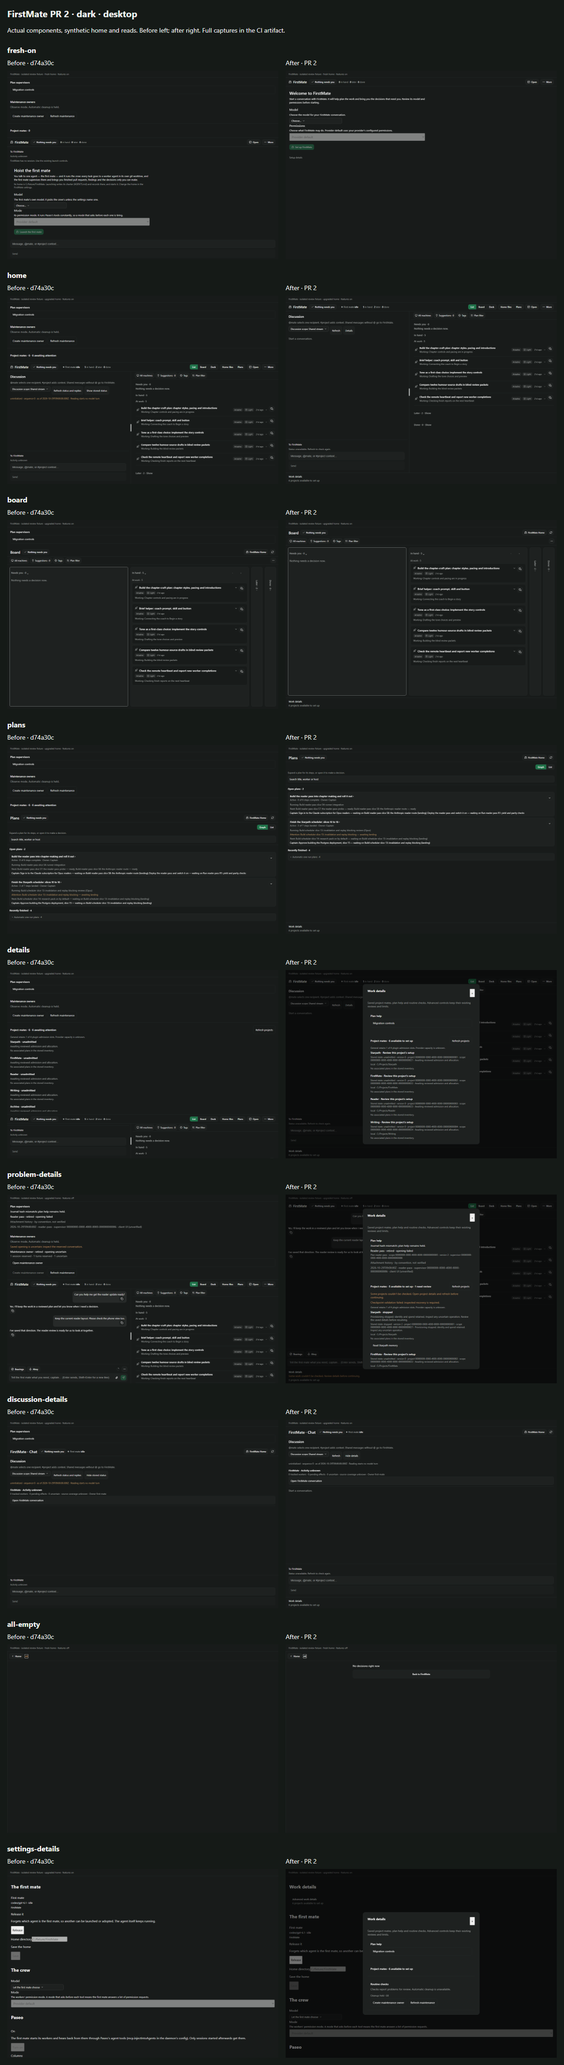
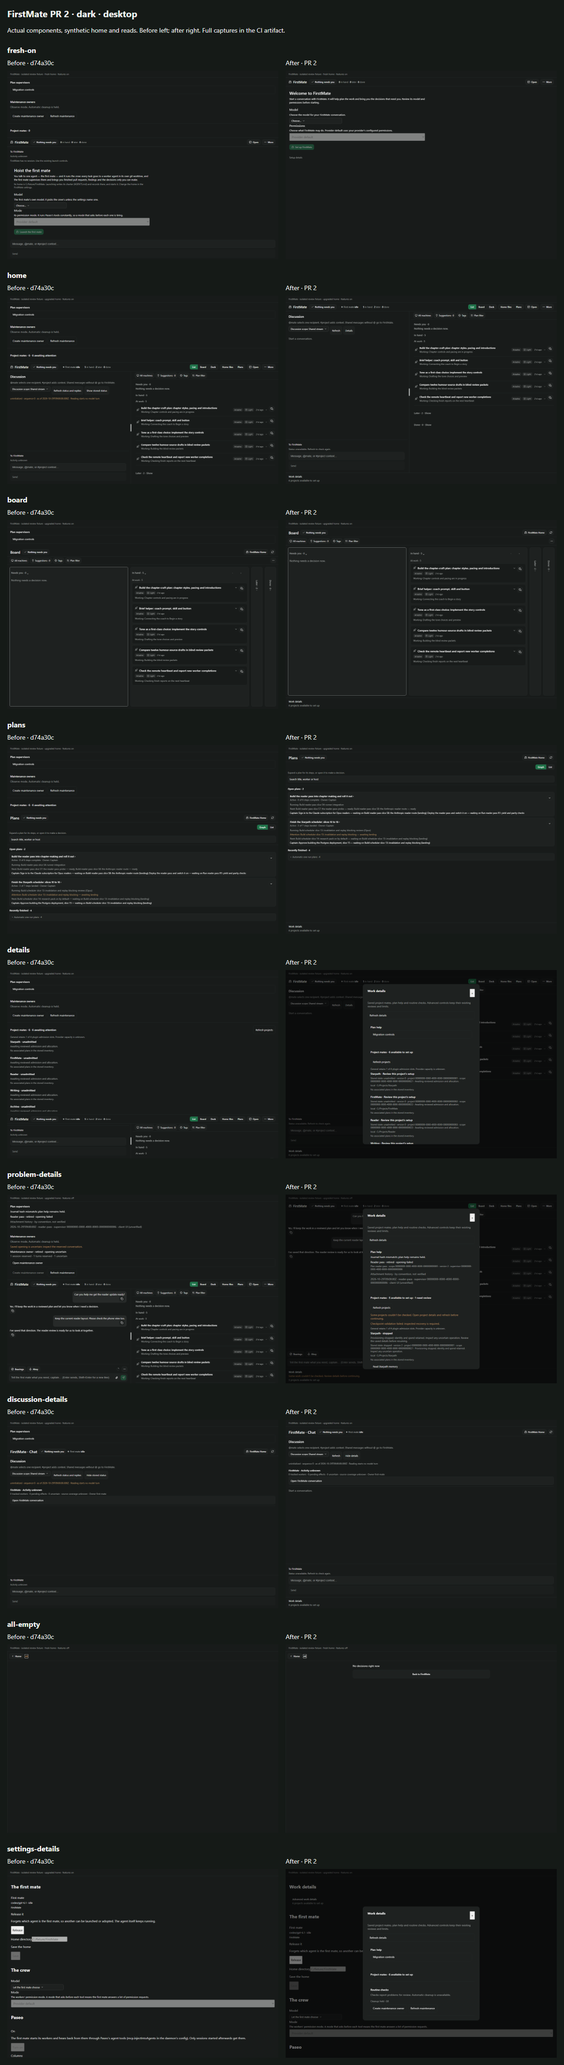
fix: make Work details navigation, recovery and enlarged actions work

Changed region(s): [[0.6562, 0.5914, 0.8125, 0.6848], [0.6562, 0.498, 0.8125, 0.5603], [0.6562, 0.9338, 0.7188, 0.9649]]

diff --git a/client/work-details.tsx b/client/work-details.tsx
@@ -3,7 +3,7 @@ import type { PluginTheme } from "@getpaseo/plugin";
 import { useRpc, type PluginScreenProps } from "@getpaseo/plugin/client";
 import { Modal } from "@getpaseo/plugin/client/react-native";
 import { useQuery } from "@tanstack/react-query";
-import { useEffect, useState } from "react";
+import { useEffect, useRef, useState } from "react";
 import { Pressable, Text, View } from "react-native";
 import { ProjectRuntimeSnapshotSchema, readProjectRuntime } from "../shared/project-runtime";
 import { MaintenanceRuntimeSnapshotSchema, readMaintenance } from "../shared/maintenance-runtime";
@@ -17,14 +17,29 @@ export function WorkDetails({ theme, compact, hostId = "local", navigation, alwa
   theme: PluginTheme; compact: boolean; hostId?: string;
   navigation?: PluginScreenProps["navigation"]; always?: boolean;
 }) {
-  const { activation, activationError } = useWorkflowPlans();
+  const { activation, activationError, activationFetching, refreshActivation } = useWorkflowPlans();
   const readProjects = useRpc(readProjectRuntime), readChecks = useRpc(readMaintenance);
   const projects = useQuery({ queryKey: ["firstmate", "project-ownership", hostId],
     queryFn: async () => ProjectRuntimeSnapshotSchema.parse(await readProjects({})), refetchInterval: 5000 });
   const checks = useQuery({ queryKey: ["firstmate", "maintenance-ownership", hostId],
     queryFn: async () => MaintenanceRuntimeSnapshotSchema.parse(await readChecks({})), refetchInterval: 5000 });
   const [open, setOpen] = useState(false);
-  useEffect(() => { setOpen(false); }, [hostId, projects.data?.homeId, checks.data?.homeId, activation?.homeId]);
+  const identity = useRef({ hostId, project: projects.data?.homeId, checks: checks.data?.homeId, activation: activation?.homeId });
+  useEffect(() => {
+    const next = { hostId, project: projects.data?.homeId, checks: checks.data?.homeId, activation: activation?.homeId };
+    // First successful metadata after a cold read error is recovery, not a home switch.
+    const keys = ["project", "checks", "activation"] as const;
+    const knownHomes = keys.map(key => identity.current[key]).filter(Boolean);
+    if (identity.current.hostId !== hostId || keys.some(key =>
+      next[key] && knownHomes.some(home => home !== next[key]))) setOpen(false);
+    identity.current = next;
+  }, [hostId, projects.data?.homeId, checks.data?.homeId, activation?.homeId]);
+  const refreshing = !!activationFetching || projects.isFetching || checks.isFetching;
+  function refresh() {
+    refreshActivation?.();
+    void projects.refetch({ cancelRefetch: false });
+    void checks.refetch({ cancelRefetch: false });
+  }
   const available = projects.data?.projects.filter(projectSetupAvailable).length ?? 0;
   const problem = activationError || projects.isError || checks.isError || !!activation?.problems.length ||
     !!projects.data?.problems.length || projects.data?.freshness === "held" || projects.data?.projects.some(projectHasProblem) ||
@@ -35,7 +50,7 @@ export function WorkDetails({ theme, compact, hostId = "local", navigation, alwa
   if (!always && !available && !retained && !problem) return null;
   return <View testID="work-details-entry" style={{ paddingHorizontal: compact ? 12 : 16, borderTopWidth: always ? 0 : 1, borderColor: theme.colors.border }}>
     <Pressable accessibilityRole="button" accessibilityLabel={always ? "Advanced work details" : "Work details"} accessibilityState={{ expanded: open }}
-      onPress={() => setOpen(true)} style={{ minHeight: 44, paddingVertical: 10, gap: 4, justifyContent: "center" }}>
+      onPress={() => { setOpen(true); refresh(); }} style={{ minHeight: 44, paddingVertical: 10, gap: 4, justifyContent: "center" }}>
       <Text style={{ color: theme.colors.foreground, fontSize: 13 }}>{always ? "Advanced work details" : "Work details"}</Text>
       {problem ? <Text accessibilityRole="alert" style={{ color: theme.colors.statusWarning, fontSize: 13 }}>Some work couldn't be checked. Review details before continuing.</Text> : null}
       {available ? <Text style={{ color: theme.colors.foregroundMuted, fontSize: 13 }}>{available} {available === 1 ? "project available" : "projects available"} to set up</Text> : null}
@@ -44,10 +59,14 @@ export function WorkDetails({ theme, compact, hostId = "local", navigation, alwa
       <View style={{ gap: 16 }}>
         <Text style={{ color: theme.colors.foregroundMuted }}>Saved project mates, plan help and routine checks. Advanced controls keep their existing reviews and limits.</Text>
         {projects.isPending || checks.isPending || !activation && !activationError ? <Text style={{ color: theme.colors.foregroundMuted }}>Loading saved work…</Text> : null}
-        {activationError ? <Text accessibilityRole="alert" style={{ color: theme.colors.statusWarning }}>Plan help could not be refreshed. Close and reopen details to check again; actions remain unavailable.</Text> : null}
+        {activationError ? <Text accessibilityRole="alert" style={{ color: theme.colors.statusWarning }}>Plan help could not be refreshed. Refresh details to check again; actions remain unavailable.</Text> : null}
+        <Pressable accessibilityRole="button" accessibilityLabel={refreshing ? "Refreshing details…" : "Refresh details"} accessibilityState={{ disabled: refreshing }} disabled={refreshing}
+          onPress={refresh} style={{ minHeight: 44, maxWidth: "100%", minWidth: 0, justifyContent: "center", padding: 10, borderWidth: 1, borderRadius: 7, borderColor: theme.colors.border, opacity: refreshing ? 0.5 : 1 }}>
+          <Text style={{ color: theme.colors.foreground, flexShrink: 1 }}>{refreshing ? "Refreshing details…" : "Refresh details"}</Text>
+        </Pressable>
         <SupervisionActivationBoard theme={theme} compact={compact} advanced />
-        <ProjectOwnershipBoard theme={theme} compact={compact} hostId={hostId} {...(navigation ? { navigation } : {})} advanced />
-        <MaintenanceOwnershipBoard theme={theme} compact={compact} hostId={hostId} {...(navigation ? { navigation } : {})} advanced />
+        <ProjectOwnershipBoard theme={theme} compact={compact} hostId={hostId} {...(navigation ? { navigation } : {})} onNavigate={() => setOpen(false)} advanced />
+        <MaintenanceOwnershipBoard theme={theme} compact={compact} hostId={hostId} {...(navigation ? { navigation } : {})} onNavigate={() => setOpen(false)} advanced />
         {!projects.isPending && !checks.isPending && activation && !problem && !available && !retained && !activation.enabled && !projects.data?.enabled && !checks.data?.enabled ?
           <Text style={{ color: theme.colors.foregroundMuted }}>No saved project mates, plan help or routine checks.</Text> : null}
       </View>

diff --git a/client/work-details.test.ts b/client/work-details.test.ts
@@ -4,7 +4,7 @@ import { QueryClient, QueryClientProvider } from "@tanstack/react-query";
 import { afterEach, beforeEach, expect, it, vi } from "vitest";
 import { attentionTheme as theme } from "../test/attention-deck-fixture";
 import { visibleText } from "../test/visible-text";
-const state = vi.hoisted(() => ({ projects: {} as any, checks: {} as any, activation: {} as any, calls: [] as string[], fail: false }));
+const state = vi.hoisted(() => ({ projects: {} as any, checks: {} as any, activation: {} as any, calls: [] as string[], fail: false, activationError: false, refreshActivation: vi.fn() }));
 vi.mock("react-native", () => ({ Pressable: "Pressable", Text: "Text", View: "View" }));
 vi.mock("@getpaseo/plugin/client", () => ({ useRpc: (rpc: { name: string }) => async () => {
   state.calls.push(rpc.name);
@@ -14,7 +14,7 @@ vi.mock("@getpaseo/plugin/client", () => ({ useRpc: (rpc: { name: string }) => a
   throw new Error(`Unexpected effect: ${rpc.name}`);
 } }));
 vi.mock("@getpaseo/plugin/client/react-native", () => ({ Modal: Object.assign(({ open, children }: { open: boolean; children: ReactNode }) => open ? children : null, { Content: "Content" }) }));
-vi.mock("./workflow-plans", () => ({ useWorkflowPlans: () => ({ activation: state.activation }) }));
+vi.mock("./workflow-plans", () => ({ useWorkflowPlans: () => ({ activation: state.activation, activationError: state.activationError, refreshActivation: state.refreshActivation }) }));
 vi.mock("./project-ownership", () => ({ ProjectOwnershipBoard: "ProjectOwnershipBoard" }));
 vi.mock("./maintenance-ownership", () => ({ MaintenanceOwnershipBoard: "MaintenanceOwnershipBoard" }));
 vi.mock("./supervision-activation", () => ({ SupervisionActivationBoard: "SupervisionActivationBoard" }));
@@ -22,7 +22,7 @@ import { WorkDetails } from "./work-details";
 let renderer: ReactTestRenderer | undefined, cache: QueryClient;
 beforeEach(() => {
   (globalThis as { IS_REACT_ACT_ENVIRONMENT?: boolean }).IS_REACT_ACT_ENVIRONMENT = true;
-  state.calls = []; state.fail = false;
+  state.calls = []; state.fail = false; state.activationError = false; state.refreshActivation.mockReset();
   state.activation = { enabled: true, homeId: "fixture", problems: [], plans: [], audits: [], migrations: [], dispositions: [] };
   state.projects = { enabled: true, homeId: "fixture", registryDigest: null, sequence: 0, hash: null, freshness: "uninitialized", problems: [],
     general: { agentId: null, scopeId: null, slots: 4, headroom: 1, providerAvailability: "unknown" }, projects: [] };
@@ -49,10 +49,49 @@ it("disabled controls keep a failed opening/audit reachable and opening details 
   await mount(); expect(text()).toContain("Review details before continuing");
   await act(async () => renderer!.root.find(n => n.type === "Pressable" as never).props.onPress());
   expect(renderer!.root.findByType("SupervisionActivationBoard" as never).props.advanced).toBe(true);
-  expect(state.calls).toEqual(["firstmate.projects.read", "firstmate.maintenance.read"]);
+  expect(state.calls).toContain("firstmate.projects.read"); expect(state.calls).toContain("firstmate.maintenance.read");
+  expect(state.calls.every(name => name.endsWith(".read"))).toBe(true);
 });
 it("cold read failure stays visible even with no saved inventory", async () => {
   state.fail = true; await mount();
   expect(text()).toContain("Some work couldn't be checked");
   expect(text()).not.toContain("No saved project mates");
+});
+it("F1: accepted project navigation dismisses the containing details dialog", async () => {
+  await mount(true);
+  await act(async () => renderer!.root.find(n => n.type === "Pressable" as never).props.onPress());
+  const project = renderer!.root.findByType("ProjectOwnershipBoard" as never);
+  await act(async () => project.props.onNavigate?.());
+  expect(renderer!.root.findAllByType("ProjectOwnershipBoard" as never)).toHaveLength(0);
+});
+it("F2: opening/reopening details retries its owning plan read, including a cold error", async () => {
+  state.activation = undefined; state.activationError = true;
+  await mount(true);
+  const trigger = () => renderer!.root.find(n => n.type === "Pressable" as never && n.props.accessibilityLabel === "Advanced work details");
+  await act(async () => trigger().props.onPress());
+  expect(state.refreshActivation).toHaveBeenCalledTimes(1);
+  await act(async () => renderer!.root.findByProps({ title: "Work details" }).props.onOpenChange(false));
+  await act(async () => trigger().props.onPress());
+  expect(state.refreshActivation).toHaveBeenCalledTimes(2);
+  expect(state.calls.every(name => name.endsWith(".read"))).toBe(true);
+});
+it("F2: first recovered activation metadata keeps details open; a changed known home closes it", async () => {
+  const saved = state.activation; state.activation = undefined; state.activationError = true;
+  await mount(true);
+  await act(async () => renderer!.root.find(n => n.type === "Pressable" as never && n.props.accessibilityLabel === "Advanced work details").props.onPress());
+  state.activation = saved; state.activationError = false;
+  const update = () => renderer!.update(createElement(QueryClientProvider, { client: cache }, createElement(WorkDetails, { theme, compact: true, always: true })));
+  await act(async () => update());
+  expect(renderer!.root.findAllByType("ProjectOwnershipBoard" as never)).toHaveLength(1);
+  state.activation = { ...saved, homeId: "another-home" };
+  await act(async () => update());
+  expect(renderer!.root.findAllByType("ProjectOwnershipBoard" as never)).toHaveLength(0);
+});
+it("F2: recovered activation from another home still closes details even without earlier activation metadata", async () => {
+  const saved = state.activation; state.activation = undefined; state.activationError = true;
+  await mount(true);
+  await act(async () => renderer!.root.find(n => n.type === "Pressable" as never && n.props.accessibilityLabel === "Advanced work details").props.onPress());
+  state.activation = { ...saved, homeId: "another-home" }; state.activationError = false;
+  await act(async () => renderer!.update(createElement(QueryClientProvider, { client: cache }, createElement(WorkDetails, { theme, compact: true, always: true }))));
+  expect(renderer!.root.findAllByType("ProjectOwnershipBoard" as never)).toHaveLength(0);
 });

diff --git a/client/project-ownership.test.ts b/client/project-ownership.test.ts
@@ -12,17 +12,17 @@ import { updateFirstmateConfig } from "../server/config";
 import type { PaseoApi } from "../server/host-types";
 import type { ProjectRuntimeSnapshot } from "../shared/project-runtime";
 import { attentionTheme as theme } from "../test/attention-deck-fixture";
-const state = vi.hoisted(() => ({ data: null as ProjectRuntimeSnapshot | null, read: vi.fn(), provision: vi.fn(), recover: vi.fn(), abort: vi.fn() }));
+const state = vi.hoisted(() => ({ data: null as ProjectRuntimeSnapshot | null, read: vi.fn(), provision: vi.fn(), recover: vi.fn(), abort: vi.fn(), discuss: vi.fn(), canDiscuss: false }));
 vi.mock("@getpaseo/plugin/client", () => ({ useRpc: (rpc: { name: string }) => rpc.name.endsWith("provision-ui") ? state.provision : rpc.name.endsWith("recover-ui") ? state.recover : rpc.name.endsWith("abort-ui") ? state.abort : state.read }));
 vi.mock("react-native", () => ({ Pressable: "Pressable", ScrollView: "ScrollView", Text: "Text", View: "View" }));
 vi.mock("@getpaseo/plugin/client/react-native", () => ({ Modal: Object.assign(({ open, children }: { open: boolean; children: ReactNode }) => open ? children : null, { Content: "Content" }) }));
-vi.mock("./workflow-plans", () => ({ useWorkflowPlans: () => ({}), workflowRequestId: () => "00000000-0000-4000-8000-000000000099" }));
+vi.mock("./workflow-plans", () => ({ useWorkflowPlans: () => ({ discussScope: state.discuss, canDiscussScope: () => state.canDiscuss }), workflowRequestId: () => "00000000-0000-4000-8000-000000000099" }));
 import { ProjectOwnershipBoard } from "./project-ownership";
 import { visibleText } from "../test/visible-text";
 let renderer: ReactTestRenderer | undefined, cache: QueryClient;
 beforeEach(() => {
   (globalThis as { IS_REACT_ACT_ENVIRONMENT?: boolean }).IS_REACT_ACT_ENVIRONMENT = true;
-  vi.clearAllMocks(); cache = new QueryClient({ defaultOptions: { queries: { retry: false } } });
+  vi.clearAllMocks(); state.discuss.mockReset(); state.canDiscuss = false; cache = new QueryClient({ defaultOptions: { queries: { retry: false } } });
   state.data = { enabled: true, homeId: "fixture", registryDigest: "a".repeat(64), sequence: 10, hash: "a".repeat(64), freshness: "current", problems: [],
     general: { agentId: "general", scopeId: null, slots: 4, headroom: 1, providerAvailability: "unknown" }, projects: [{ name: "Alpha", projectId: "00000000-0000-4000-8000-000000000001", scopeId: "00000000-0000-4000-8000-000000000002", hostId: "local", directory: "C:/Alpha", state: "admitted", reason: null, version: 2, aliases: [], agentId: null, workspaceId: null, provisionRequestId: null,
       sessions: 0, turns: 0, uncertain: 0, memoryPending: 0, profile: { provider: "codex/test", modeId: "full-access" }, limits: { supervisorSessions: 1, supervisorTurns: 5 }, plans: [] }] };
@@ -30,8 +30,8 @@ beforeEach(() => {
 });
 afterEach(async () => { await act(async () => renderer?.unmount()); cache.clear(); });
 const button = (label: string) => renderer!.root.find(n => n.type === "Pressable" as never && n.props.accessibilityLabel === label);
-async function mount() {
-  await act(async () => { renderer = create(createElement(QueryClientProvider, { client: cache }, createElement(ProjectOwnershipBoard, { theme, compact: true }))); });
+async function mount(extra: Partial<Parameters<typeof ProjectOwnershipBoard>[0]> = {}) {
+  await act(async () => { renderer = create(createElement(QueryClientProvider, { client: cache }, createElement(ProjectOwnershipBoard, { theme, compact: true, ...extra }))); });
   await vi.waitFor(async () => {
     await act(async () => { await new Promise(done => setTimeout(done, 0)); });
     expect(button("Project mates and plans")).toBeDefined();
@@ -63,6 +63,29 @@ it("feature-off history keeps a stopped project without an agent inspectable", a
   await act(async () => button("Project mates and plans").props.onPress());
   expect(visibleText(renderer!.toJSON())).toContain("identity and spend retained");
   expect(state.provision).not.toHaveBeenCalled(); expect(state.abort).not.toHaveBeenCalled();
+});
+it("F1: dismisses details after a checked discussion route and keeps it open if eligibility changed", async () => {
+  const order: string[] = [], onNavigate = vi.fn(() => order.push("dismiss"));
+  state.canDiscuss = true; state.discuss.mockImplementation(() => order.push("discuss"));
+  await mount({ onNavigate }); await act(async () => button("Project mates and plans").props.onPress());
+  const discuss = button("Discuss Alpha scope").props.onPress;
+  state.canDiscuss = false;
+  await act(async () => discuss());
+  expect(state.discuss).not.toHaveBeenCalled(); expect(onNavigate).not.toHaveBeenCalled();
+  state.canDiscuss = true;
+  await act(async () => discuss());
+  expect(state.discuss).toHaveBeenCalledExactlyOnceWith(state.data!.projects[0]!.scopeId, "fixture");
+  expect(order).toEqual(["discuss", "dismiss"]);
+  expect(state.provision).not.toHaveBeenCalled(); expect(state.recover).not.toHaveBeenCalled(); expect(state.abort).not.toHaveBeenCalled();
+});
+it("F1: native conversation navigation preserves the host and agent before dismissing details", async () => {
+  Object.assign(state.data!.projects[0]!, { agentId: "recorded-agent", workspaceId: "recorded-workspace" });
+  const order: string[] = [], openAgent = vi.fn(() => order.push("open")), onNavigate = vi.fn(() => order.push("dismiss"));
+  await mount({ hostId: "other-host", navigation: { openAgent, openWorkspace: vi.fn() }, onNavigate });
+  await act(async () => button("Project mates and plans").props.onPress());
+  await act(async () => button("Open Alpha conversation").props.onPress());
+  expect(openAgent).toHaveBeenCalledExactlyOnceWith({ agentId: "recorded-agent", serverId: "other-host" });
+  expect(order).toEqual(["open", "dismiss"]); expect(state.provision).not.toHaveBeenCalled();
 });
 
 it.each(["mounted", "remounted", "stop"])("review F2: %s app repairs through the production RPC and resumes the same recorded input", async mode => {

diff --git a/client/project-ownership.tsx b/client/project-ownership.tsx
@@ -12,12 +12,12 @@ import { projectHasHistory, projectHasProblem, projectSetupAvailable } from "./o
 type Project = ProjectRuntimeSnapshot["projects"][number];
 function Action({ theme, label, onPress, disabled = false }: { theme: PluginTheme; label: string; onPress(): void; disabled?: boolean }) {
   return <Pressable accessibilityRole="button" accessibilityLabel={label} accessibilityState={{ disabled }} disabled={disabled} onPress={onPress}
-    style={{ minHeight: 44, paddingHorizontal: 12, paddingVertical: 8, justifyContent: "center", borderWidth: 1, borderColor: theme.colors.border, borderRadius: 7, opacity: disabled ? 0.5 : 1 }}>
-    <Text style={{ color: theme.colors.foreground, fontSize: 13 }}>{label}</Text>
+    style={{ minHeight: 44, maxWidth: "100%", minWidth: 0, flexShrink: 1, paddingHorizontal: 12, paddingVertical: 8, justifyContent: "center", borderWidth: 1, borderColor: theme.colors.border, borderRadius: 7, opacity: disabled ? 0.5 : 1 }}>
+    <Text style={{ color: theme.colors.foreground, fontSize: 13, flexShrink: 1 }}>{label}</Text>
   </Pressable>;
 }
-export function ProjectOwnershipBoard({ theme, compact, navigation, hostId = "local", advanced = false }: {
-  theme: PluginTheme; compact: boolean; navigation?: PluginScreenProps["navigation"]; hostId?: string; advanced?: boolean;
+export function ProjectOwnershipBoard({ theme, compact, navigation, hostId = "local", advanced = false, onNavigate }: {
+  theme: PluginTheme; compact: boolean; navigation?: PluginScreenProps["navigation"]; hostId?: string; advanced?: boolean; onNavigate?(): void;
 }) {
   const read = useRpc(readProjectRuntime), provision = useRpc(provisionProjectFromUi);
   const plans = useWorkflowPlans();
@@ -66,8 +66,8 @@ export function ProjectOwnershipBoard({ theme, compact, navigation, hostId = "lo
     <ProjectOwnershipView theme={theme} compact={compact} data={data} readError={query.isError} onRefresh={() => { void query.refetch(); }}
       {...(!selected ? { onRecover: () => { void repair(); }, recoveryBusy: busy } : {})}
       onProvision={p => { pending.current = null; setError(null); select(p); }}
-      onDiscuss={p => { if (p.scopeId) plans.discussScope?.(p.scopeId, data.homeId); }} canDiscuss={p => !!p.scopeId && !!plans.canDiscussScope?.(p.scopeId, data.homeId)}
-      onOpen={navigation ? p => { if (p.agentId) navigation.openAgent({ agentId: p.agentId, ...(hostId === "local" ? {} : { serverId: hostId }) }); } : undefined} />
+      onDiscuss={p => { if (p.scopeId && plans.canDiscussScope?.(p.scopeId, data.homeId) && plans.discussScope) { plans.discussScope(p.scopeId, data.homeId); onNavigate?.(); } }} canDiscuss={p => !!p.scopeId && !!plans.canDiscussScope?.(p.scopeId, data.homeId)}
+      onOpen={navigation ? p => { if (p.agentId) { navigation.openAgent({ agentId: p.agentId, ...(hostId === "local" ? {} : { serverId: hostId }) }); onNavigate?.(); } } : undefined} />
     {!selected && error ? <Text accessibilityRole="alert" style={{ color: theme.colors.statusDanger }}>{error}</Text> : null}
     {selected ? <Modal title={`${selected.provisionRequestId ? "Resume" : "Create"} project mate for ${selected.name}?`} open onOpenChange={open => { if (!open && !busy) select(null); }}>
       <Modal.Content><View style={{ gap: 12 }}>

diff --git a/client/maintenance-ownership.tsx b/client/maintenance-ownership.tsx
@@ -17,11 +17,11 @@ import { maintenanceHasHistory } from "./ownership-state";
 type Owner = MaintenanceRuntimeSnapshot["owners"][number];
 function Action({ theme, label, disabled = false, onPress }: { theme: PluginTheme; label: string; disabled?: boolean; onPress(): void }) {
   return <Pressable accessibilityRole="button" accessibilityLabel={label} accessibilityState={{ disabled }} disabled={disabled} onPress={onPress}
-    style={{ minHeight: 44, paddingHorizontal: 12, paddingVertical: 10, justifyContent: "center", borderWidth: 1, borderColor: theme.colors.border, borderRadius: 7, opacity: disabled ? 0.5 : 1 }}>
-    <Text style={{ color: theme.colors.foreground }}>{label}</Text>
+    style={{ minHeight: 44, maxWidth: "100%", minWidth: 0, flexShrink: 1, paddingHorizontal: 12, paddingVertical: 10, justifyContent: "center", borderWidth: 1, borderColor: theme.colors.border, borderRadius: 7, opacity: disabled ? 0.5 : 1 }}>
+    <Text style={{ color: theme.colors.foreground, flexShrink: 1 }}>{label}</Text>
   </Pressable>;
 }
-export function MaintenanceOwnershipBoard({ theme, compact, hostId = "local", navigation, advanced = false }: { theme: PluginTheme; compact: boolean; hostId?: string; navigation?: PluginScreenProps["navigation"]; advanced?: boolean }) {
+export function MaintenanceOwnershipBoard({ theme, compact, hostId = "local", navigation, advanced = false, onNavigate }: { theme: PluginTheme; compact: boolean; hostId?: string; navigation?: PluginScreenProps["navigation"]; advanced?: boolean; onNavigate?(): void }) {
   const read = useRpc(readMaintenance);
   const query = useQuery({ queryKey: ["firstmate", "maintenance-ownership", hostId], queryFn: async () => MaintenanceRuntimeSnapshotSchema.parse(await read({})), refetchInterval: 5000 });
   const [admission, selectAdmission] = useState<Owner | "new" | null>(null);
@@ -40,7 +40,7 @@ export function MaintenanceOwnershipBoard({ theme, compact, hostId = "local", na
         <Text style={{ color: colors.foreground }}>{owner.admission?.name ?? "Maintenance owner"} · {owner.state}{owner.opening ? ` · opening ${owner.opening}` : ""}</Text>
         <Text style={{ color: colors.foregroundMuted }}>{owner.sessions} session reserved · {owner.turns} turns reserved{owner.uncertain ? ` · ${owner.uncertain} uncertain` : ""}</Text>
         <Text selectable style={{ color: colors.foregroundMuted, fontSize: 12 }}>Scope {owner.scopeId} · epoch {owner.epoch} · agent {owner.agentId ?? "not recorded"}</Text>
-        {owner.agentId && navigation ? <Action theme={theme} label={`Open ${owner.admission?.name ?? "maintenance owner"}`} onPress={() => navigation.openAgent({ agentId: owner.agentId!, ...(hostId === "local" ? {} : { serverId: hostId }) })} /> : null}
+        {owner.agentId && navigation ? <Action theme={theme} label={`Open ${owner.admission?.name ?? "maintenance owner"}`} onPress={() => { navigation.openAgent({ agentId: owner.agentId!, ...(hostId === "local" ? {} : { serverId: hostId }) }); onNavigate?.(); }} /> : null}
         {owner.admission && owner.opening !== "succeeded" ? <Action theme={theme} label={`Resume ${owner.admission.name}`} disabled={stale} onPress={() => selectAdmission(owner)} /> : null}
       </View>)}
     </View>

diff --git a/client/maintenance-ownership.test.ts b/client/maintenance-ownership.test.ts
@@ -23,8 +23,8 @@ beforeEach(() => {
 });
 afterEach(async () => { await act(async () => renderer?.unmount()); renderer = undefined; cache.clear(); });
 const button = (label: string) => renderer!.root.find(n => n.type === "Pressable" as never && n.props.accessibilityLabel === label);
-async function mount() {
-  await act(async () => { renderer = create(createElement(QueryClientProvider, { client: cache }, createElement(MaintenanceOwnershipBoard, { theme, compact: true, advanced: true }))); });
+async function mount(extra: Partial<Parameters<typeof MaintenanceOwnershipBoard>[0]> = {}) {
+  await act(async () => { renderer = create(createElement(QueryClientProvider, { client: cache }, createElement(MaintenanceOwnershipBoard, { theme, compact: true, advanced: true, ...extra }))); });
   await vi.waitFor(async () => { await act(async () => { await new Promise(done => setTimeout(done, 0)); }); expect(button("Create maintenance owner")).toBeDefined(); });
 }
 it("fresh-home app reads/opening create nothing; explicit confirmation retains exact admission after a lost reply", async () => {
@@ -51,4 +51,13 @@ it("a fresh client resumes the recorded maintenance request and a failed refresh
   expect(mocks.admit.mock.calls[0]![0]).toEqual({ homeId: data.homeId, requestId: id, resume: true });
   mocks.read.mockRejectedValue(new Error("offline")); await act(async () => { await cache.refetchQueries(); await new Promise(done => setTimeout(done, 20)); });
   expect(button("Retry recorded maintenance admission").props.disabled).toBe(true);
+});
+it("F1: inspecting a retained checks conversation dismisses details without starting any work", async () => {
+  data.enabled = false;
+  data.owners = [{ scopeId: id, state: "retired", agentId: "saved-checks", epoch: 2, sessions: 1, turns: 1, uncertain: 1, admission: null, opening: "uncertain" }];
+  const order: string[] = [], openAgent = vi.fn(() => order.push("open")), onNavigate = vi.fn(() => order.push("dismiss"));
+  await mount({ navigation: { openAgent, openWorkspace: vi.fn() }, onNavigate });
+  await act(async () => button("Open maintenance owner").props.onPress());
+  expect(openAgent).toHaveBeenCalledExactlyOnceWith({ agentId: "saved-checks" });
+  expect(order).toEqual(["open", "dismiss"]); expect(mocks.admit).not.toHaveBeenCalled(); expect(mocks.answer).not.toHaveBeenCalled();
 });

diff --git a/client/workflow-plans.tsx b/client/workflow-plans.tsx
@@ -32,7 +32,8 @@ export function workflowRequestId() {
   return globalThis.crypto?.randomUUID?.() ?? "xxxxxxxx-xxxx-4xxx-yxxx-xxxxxxxxxxxx".replace(/[xy]/g, c => { const n = Math.floor(Math.random() * 16); return (c === "x" ? n : (n & 3) | 8).toString(16); });
 }
 type PlansContext = {
-  activation?: ActivationSnapshot | undefined; activationError?: boolean | undefined; updateActivation?(snapshot: ActivationSnapshot): void;
+  activation?: ActivationSnapshot | undefined; activationError?: boolean | undefined; activationFetching?: boolean;
+  refreshActivation?(): void; updateActivation?(snapshot: ActivationSnapshot): void;
   snapshot?: WorkflowSnapshot; loading: boolean; error: string | null; refresh(): void; open(id: string): void;
   scope?: string | null; fleet?: Fleet | undefined; fleetOffline?: boolean; canNavigate?: boolean;
   planFilter?: string | null; setPlanFilter?(id: string | null): void;
@@ -94,7 +95,8 @@ export function WorkflowSurface({ theme, children, hostId, view, shell, params =
     finally { gate.current = false; setBusy(false); }
   }
   return <Plans.Provider value={{ ...(snapshot ? { snapshot } : {}), loading: query.isPending, error: query.error ? errorText(query.error) : null, refresh: () => { void query.refetch(); }, open,
-    activation: scopeRead.data?.activation, activationError: !!scopeRead.error,
+    activation: scopeRead.data?.activation, activationError: !!scopeRead.error, activationFetching: scopeRead.isFetching,
+    refreshActivation: () => { void scopeRead.refetch({ cancelRefetch: false }); },
     updateActivation: next => cache.setQueryData([...SCOPE_QUERY_KEY, hostId ?? "local", data?.home ?? ""], (current: typeof scopeRead.data) => current ? { ...current, activation: next } : current),
     scope, fleet: data, fleetOffline: !!fleet.error, canNavigate: !!scope && (!view || !!shell?.openTask), planFilter,
     discussPlan, canDiscussPlan: id => !!discussionScope(id),

diff --git a/docs/smooth-pr2/regression-panel.jsx b/docs/smooth-pr2/regression-panel.jsx
@@ -1,0 +1,17 @@
+/** Registered production Home and shell; only the host and read data are synthetic. */
+import React,{useState} from 'react';
+import {createRoot} from 'react-dom/client';
+import {QueryClient,QueryClientProvider} from '@tanstack/react-query';
+import {registerFleetViews} from '../../client/workspace-panels';
+import {theme as dark} from '../board-list/theme';
+import {params} from './data';
+const theme=params.get('theme')==='light'?{colors:{...dark.colors,surface0:'#f6f8f7',surface1:'#ffffff',surface2:'#edf1ee',border:'#c9d2cc',foreground:'#16241b',foregroundMuted:'#52635a',statusWarning:'#8a5813',statusDanger:'#a52c2c',accent:'#17603b',accentForeground:'#ffffff'}}:dark;
+window.fixtureTheme=theme;
+let Home,changeRoute;
+registerFleetViews({addScreen(s){Home=s.Component},addWorkspacePanel(){},openScreen(s){window.review.navigation.push(s);changeRoute(s.params)},openPanel(){}});
+const cache=new QueryClient({defaultOptions:{queries:{retry:false,refetchOnWindowFocus:false},mutations:{retry:false}}});
+window.review.cache=cache;
+function App(){const[route,setRoute]=useState({chat:'show'});changeRoute=setRoute;
+return <QueryClientProvider client={cache}><Home theme={theme} layout={{compact:innerWidth<638}} host={{id:'local',label:'Local',online:true}} workspaceId="sample" params={route} navigation={{openAgent:input=>window.review.navigation.push(input)}} /></QueryClientProvider>}
+document.body.style.background=theme.colors.surface0;
+createRoot(document.getElementById('root')).render(<App/>);

diff --git a/client/supervision-activation.tsx b/client/supervision-activation.tsx
@@ -16,8 +16,8 @@ import { activationHasHistory } from "./ownership-state";
 type Plan = ActivationSnapshot["plans"][number];
 function Action({ theme, label, onPress, disabled = false }: { theme: PluginTheme; label: string; onPress(): void; disabled?: boolean }) {
   return <Pressable accessibilityRole="button" accessibilityLabel={label} accessibilityState={{ disabled }} disabled={disabled} onPress={onPress}
-    style={{ minHeight: 44, paddingHorizontal: 12, paddingVertical: 10, justifyContent: "center", borderWidth: 1, borderColor: theme.colors.border, borderRadius: 7, opacity: disabled ? 0.5 : 1 }}>
-    <Text style={{ color: theme.colors.foreground }}>{label}</Text>
+    style={{ minHeight: 44, maxWidth: "100%", minWidth: 0, flexShrink: 1, paddingHorizontal: 12, paddingVertical: 10, justifyContent: "center", borderWidth: 1, borderColor: theme.colors.border, borderRadius: 7, opacity: disabled ? 0.5 : 1 }}>
+    <Text style={{ color: theme.colors.foreground, flexShrink: 1 }}>{label}</Text>
   </Pressable>;
 }
 export function SupervisionActivationBoard({ theme, compact, advanced = false }: { theme: PluginTheme; compact: boolean; advanced?: boolean }) {

diff --git a/client/migration-operations.tsx b/client/migration-operations.tsx
@@ -8,8 +8,8 @@ import { errorText } from "./format";
 
 function Control({ theme, label, disabled = false, onPress }: { theme: PluginTheme; label: string; disabled?: boolean; onPress(): void }) {
   return <Pressable accessibilityRole="button" accessibilityLabel={label} accessibilityState={{ disabled }} disabled={disabled} onPress={onPress}
-    style={{ minHeight: 44, paddingVertical: 10, paddingHorizontal: 12, borderWidth: 1, borderColor: theme.colors.border, borderRadius: 7, opacity: disabled ? 0.5 : 1 }}>
-    <Text style={{ color: theme.colors.foreground }}>{label}</Text>
+    style={{ minHeight: 44, maxWidth: "100%", minWidth: 0, flexShrink: 1, paddingVertical: 10, paddingHorizontal: 12, borderWidth: 1, borderColor: theme.colors.border, borderRadius: 7, opacity: disabled ? 0.5 : 1 }}>
+    <Text style={{ color: theme.colors.foreground, flexShrink: 1 }}>{label}</Text>
   </Pressable>;
 }
 /** Extends the existing migration RPC. Viewing, inspecting and reviewing send nothing. */

diff --git a/docs/smooth-pr2.md b/docs/smooth-pr2.md
@@ -79,3 +79,32 @@ problems, discussion details, empty All and the settings destination.
 
 Enlarged text: [light](smooth-pr2/evidence/light-phone-text200.png),
 [dark](smooth-pr2/evidence/dark-phone-text200.png).
+
+## Independent review corrections
+
+The independent review at `e76f84a` reproduced three P2 failures. After rebasing
+the unchanged slice onto `cb464d1`, the new regression suite first reproduced all
+three failures, then verified these corrections:
+
+| Finding | Correction and regression evidence |
+| --- | --- |
+| F1: Discuss opened behind Work details | A checked discussion or native conversation link dismisses its containing dialog after navigation. Unit tests retain the exact scope/home or native host/agent, verify navigation happens before dismissal, and keep details open if discussion eligibility changes. The production registered Home/shell browser case verifies the named discussion is uncovered without a send. |
+| F2: advertised recovery performed no read | Opening/reopening and Refresh details call the current owning scope query through WorkflowSurface, plus the project/check readers. Refetches coalesce with an in-flight read. A cold failure needs no enabled-activation polling timer to recover. First metadata for the same home leaves the result visible; changed or inconsistent known home identity still closes the dialog. Browser tests restore the failed RPC, verify a new read and successful current-home query, then fail/recover again through the explicit control. |
+| F3: bottom control clipped at 200% text | Contained project, routine-check, attachment and migration actions have bounded width and shrinkable labels. Browser tests scroll to the bottom of both enabled and disabled-problem dialogs at doubled text size, then compare every action against the dialog and each horizontal clipping ancestor. Document overflow alone is no longer the acceptance check. Minimum 44px height is also asserted. |
+
+`node docs/smooth-pr2/regressions.mjs` checks 32 before/after production-entry
+cases across both themes and desktop/phone widths. Its baseline is `58f56fe`,
+the reviewed UI rebased unchanged onto slice 3; it remains an ancestor for CI.
+All navigation and retry cases assert zero mutation RPCs. The first run failed
+on F1/F2/F3 before the fixes. The corrected run passes, as do typecheck, 42
+focused component tests, all 146 original matrix captures and the existing four
+S05 discussion/answer browser cases. Hosted checks remain the full-suite gate.
+The full local run after the rebase passed 237 files and 3,358 tests, with four
+skipped and no failures. The known launch-tool flake did not occur in this run.
+
+The new comparison sheets include the scrolled 200% controls:
+
+| | Desktop | Phone |
+| --- | --- | --- |
+| Light | [Reviewed / fixed](smooth-pr2/evidence/light-desktop-review-fixes.png) | [Reviewed / fixed](smooth-pr2/evidence/light-phone-review-fixes.png) |
+| Dark | [Reviewed / fixed](smooth-pr2/evidence/dark-desktop-review-fixes.png) | [Reviewed / fixed](smooth-pr2/evidence/dark-phone-review-fixes.png) |
